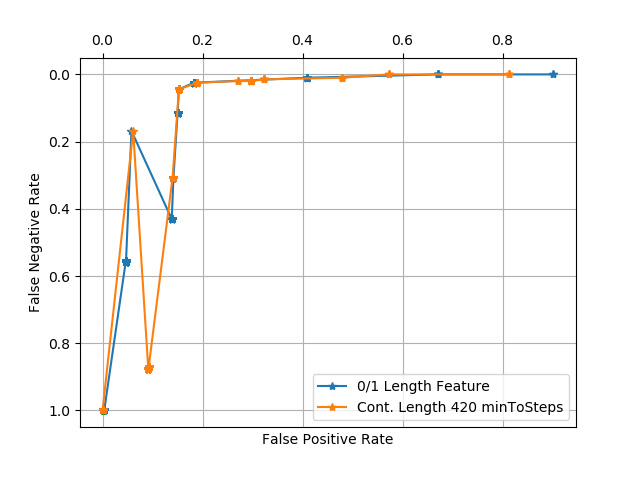
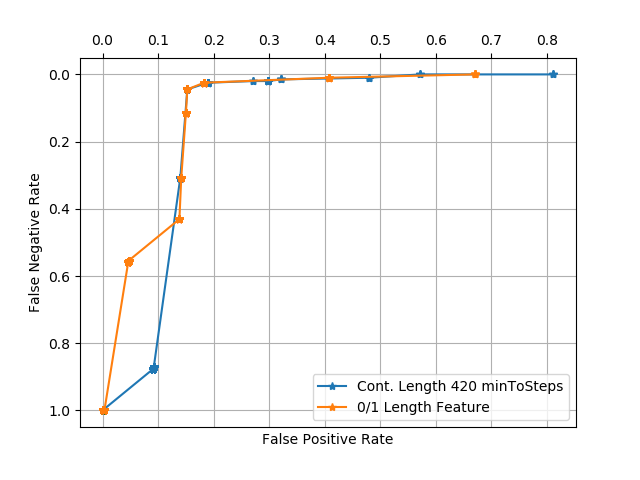
FIXED: a bug in decision tree model prediction with tolerance. REGENERATED: outputs.

diff --git a/Assignment3/Code/DecisionTreeModel.py b/Assignment3/Code/DecisionTreeModel.py
@@ -14,10 +14,11 @@ class DecisionTreeModel(object):
 
         predictions = []
         for example in xTest:
-            if threshold:
-                predictions.append(predict_w_threshold(self.tree, example, threshold))
-            else:
+            if threshold is None:
                 predictions.append(predict(self.tree, example))
+            else:
+                predictions.append(predict_w_threshold(self.tree, example, threshold))
+
 
         return predictions
 
@@ -179,6 +180,8 @@ def get_split(xTrains, yTrains):
                                   'groups': [((examples), (ys)), ((examples), (ys))]}
     """
     i_gails = get_information_gains(xTrains, yTrains)
+    if sum(i_gails) == 0.0:
+        print("No more gains found.")
     feature_index = i_gails.index(max(i_gails))
     threshold = get_feature_split_threshold(feature_index, xTrains)
     groups = split_by_feature(feature_index, xTrains, yTrains)
@@ -195,7 +198,9 @@ def get_feature_split_threshold(feature_index, xTrains):
     unique_values = list(set(values_by_features[feature_index]))
     if set(unique_values) == set([0, 1]):
         return 0.5
-    return (max(unique_values) - min(unique_values)) / 2
+    if unique_values == [1] or unique_values == [0]:
+        return 0.5
+    return (max(unique_values) - min(unique_values)) / 2.
 
 
 def split_by_feature(feature_index, xTrains, yTrains, threshold=None):
@@ -320,16 +325,28 @@ def predict_w_threshold(node, example, threshold=0.5):
         if isinstance(node['left'], dict):
             return predict_w_threshold(node['left'], example, threshold)
         else:
+            if (node['num_label_1'] + node['num_label_0']) == 0:
+                return node['right']
+            if node['num_label_1'] == 0:
+                return 0
+            if node['num_label_0'] == 0:
+                return 1
             if node['left'] == 1:
-                return int(node['num_label_1'] / (node['num_label_1'] + node['num_label_0']) < threshold)
-            return int(node['num_label_0'] / (node['num_label_1'] + node['num_label_0']) < threshold)
+                return int(node['num_label_1'] / (node['num_label_1'] + node['num_label_0']) <= threshold)
+            return int(node['num_label_0'] / (node['num_label_1'] + node['num_label_0']) <= threshold)
     else:
         if isinstance(node['right'], dict):
             return predict_w_threshold(node['right'], example, threshold)
         else:
+            if (node['num_label_1'] + node['num_label_0']) == 0:
+                return node['right']
+            if node['num_label_1'] == 0:
+                return 0
+            if node['num_label_0'] == 0:
+                return 1
             if node['right'] == 1:
-                return int(node['num_label_1'] / (node['num_label_1'] + node['num_label_0']) < threshold)
-            return int(node['num_label_0'] / (node['num_label_1'] + node['num_label_0']) < threshold)
+                return int(node['num_label_1'] / (node['num_label_1'] + node['num_label_0']) <= threshold)
+            return int(node['num_label_0'] / (node['num_label_1'] + node['num_label_0']) <= threshold)
 
 
 def predict(node, example):

diff --git a/Assignment3/Code/prob2_part2_roc_curves.py b/Assignment3/Code/prob2_part2_roc_curves.py
@@ -52,14 +52,6 @@ def compare_roc_curves_by_min_to_stop(xTrainRaw, yTrainRaw, xTestRaw, yTestRaw,
     graphs = []
     legends = []
     original_fpr_fnr = []
-    for threshold in thresholds:
-        ev = get_evaluation(xTrainRaw, yTrainRaw, xTestRaw, yTestRaw,
-                            min_to_step=100,
-                            threshold=threshold,
-                            featurize=utils.Featurize)
-        original_fpr_fnr.append((ev.fpr, ev.fnr))
-    graphs.append(sorted(original_fpr_fnr))
-    legends.append('0/1 Length Feature')
 
     for min_to_step in [420]:
         cont_length_fpr_fnr = []
@@ -68,10 +60,26 @@ def compare_roc_curves_by_min_to_stop(xTrainRaw, yTrainRaw, xTestRaw, yTestRaw,
                                 min_to_step=min_to_step,
                                 threshold=threshold,
                                 featurize=utils.FeaturizeWNumericFeature)
+            if threshold == 0:
+                assert (ev.fpr == 0.0), ev
+            print(ev)
             cont_length_fpr_fnr.append((ev.fpr, ev.fnr))
-        graphs.append(sorted(cont_length_fpr_fnr))
+        graphs.append(cont_length_fpr_fnr)
         legends.append('Cont. Length {} minToSteps'.format(min_to_step))
 
+    for threshold in thresholds:
+        ev = get_evaluation(xTrainRaw, yTrainRaw, xTestRaw, yTestRaw,
+                            min_to_step=100,
+                            threshold=threshold,
+                            featurize=utils.Featurize)
+        if threshold == 0:
+            assert(ev.fpr == 0.0), ev
+        print(ev)
+        original_fpr_fnr.append((ev.fpr, ev.fnr))
+    graphs.append(original_fpr_fnr)
+    legends.append('0/1 Length Feature')
+
+    # plotting
     start = thresholds[0]
     end = thresholds[-1]
     step = thresholds[1] - thresholds[0]
@@ -92,7 +100,7 @@ if __name__ == '__main__':
     (xTrainRaw, yTrainRaw, xTestRaw,
      yTestRaw) = utils.TrainTestSplit(xRaw, yRaw)
 
-    start = 0.01
+    start = 0
     end = 1
     N = 1000
     thresholds = [x / N for x in range(N + 1)]

diff --git a/Assignment3/Code/EvaluationsStub.py b/Assignment3/Code/EvaluationsStub.py
@@ -122,8 +122,13 @@ def EvaluateAll(y, yPredicted):
 class Evaluation(object):
 
     def __init__(self, y, yPredicted):
+        self.y = y
+        self.yPredicted = yPredicted
         self.accuracy = Accuracy(y, yPredicted)
         self.precision = Precision(y, yPredicted)
         self.recall = Recall(y, yPredicted)
         self.fpr = FalsePositiveRate(y, yPredicted)
         self.fnr = FalseNegativeRate(y, yPredicted)
+
+    def __repr__(self):
+        return EvaluateAll(self.y, self.yPredicted)

diff --git a/Assignment3/Report/prob2_part1_accuracy_m2s100.md b/Assignment3/Report/prob2_part1_accuracy_m2s100.md
@@ -63,11 +63,11 @@ Feature 1:
 ...,...,...,...,...,[0]
 ...,Feature 0: 
 ...,...,>= 0.5:
-...,...,...,Leaf: 29 vs 1871
+...,...,...,Leaf: 29 vs 1870
 ...,...,< 0.5:
 ...,...,Feature 3: 
 ...,...,...,>= 0.5:
-...,...,...,...,Leaf: 21 vs 848
+...,...,...,...,Leaf: 21 vs 847
 ...,...,...,< 0.5:
 ...,...,...,Feature 4: 
 ...,...,...,...,>= 0.5:
@@ -91,7 +91,7 @@ Feature 1:
 ...,...,...,...,...,[0]
 ...,...,...,...,...,Feature 0: 
 ...,...,...,...,...,...,>= 0.5:
-...,...,...,...,...,...,...,Leaf: 15 vs 704
+...,...,...,...,...,...,...,Leaf: 15 vs 703
 ...,...,...,...,...,...,< 0.5:
 ...,...,...,...,...,...,[0]
 ...,...,...,...,...,...,[0]
@@ -113,11 +113,11 @@ Feature 1:
 ...,...,...,...,...,...,[0]
 ...,...,Feature 3: 
 ...,...,...,>= 0.5:
-...,...,...,...,Leaf: 0 vs 219
+...,...,...,...,Leaf: 0 vs 220
 ...,...,...,< 0.5:
 ...,...,...,Feature 0: 
 ...,...,...,...,>= 0.5:
-...,...,...,...,...,Leaf: 0 vs 219
+...,...,...,...,...,Leaf: 0 vs 0
 ...,...,...,...,< 0.5:
 ...,...,...,...,[0]
 ...,...,...,...,[0]
@@ -133,7 +133,7 @@ Feature 1:
 ...,...,...,...,...,[0]
 ...,...,...,...,...,Feature 0: 
 ...,...,...,...,...,...,>= 0.5:
-...,...,...,...,...,...,...,Leaf: 1 vs 873
+...,...,...,...,...,...,...,Leaf: 0 vs 0
 ...,...,...,...,...,...,< 0.5:
 ...,...,...,...,...,...,[0]
 ...,...,...,...,...,...,[0]
